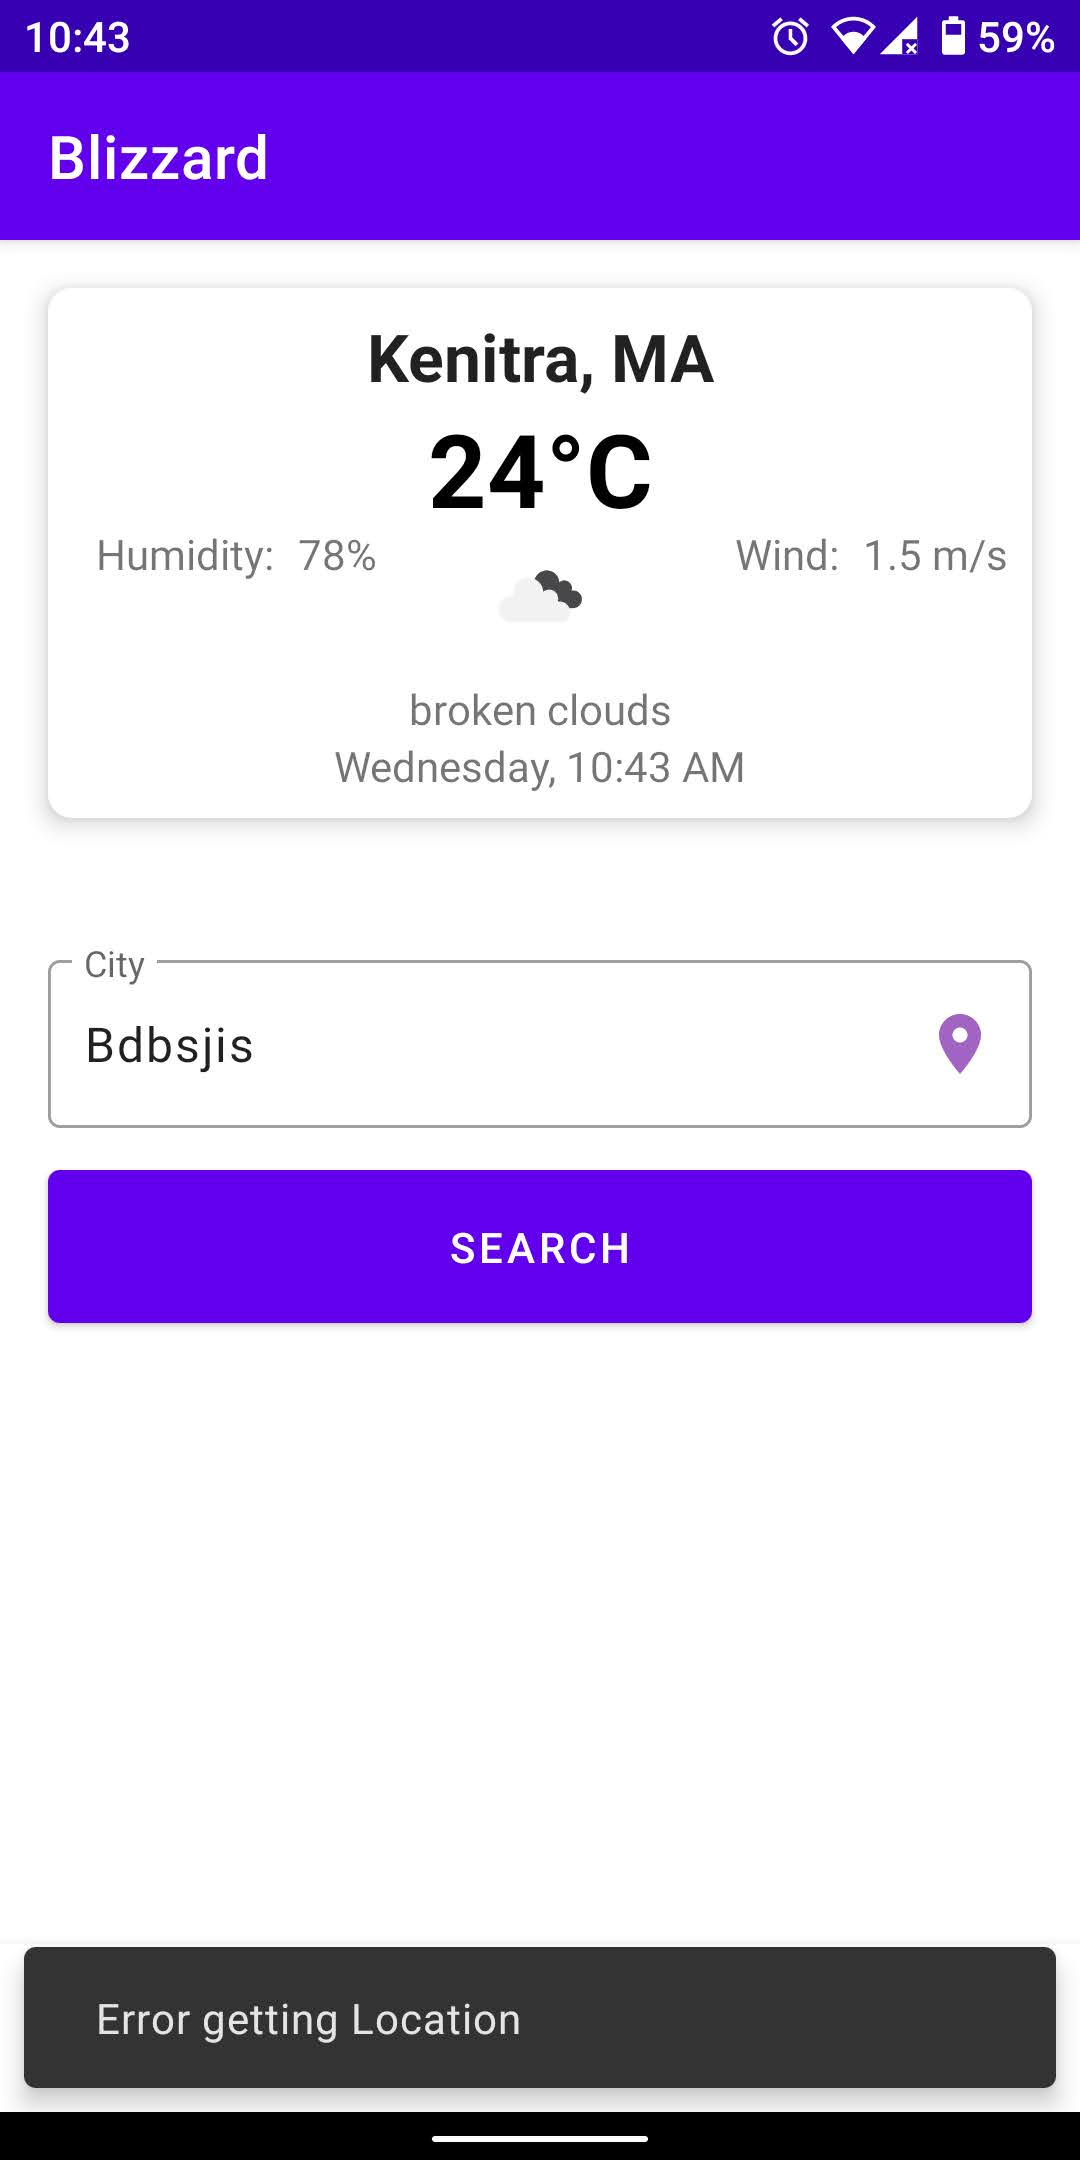
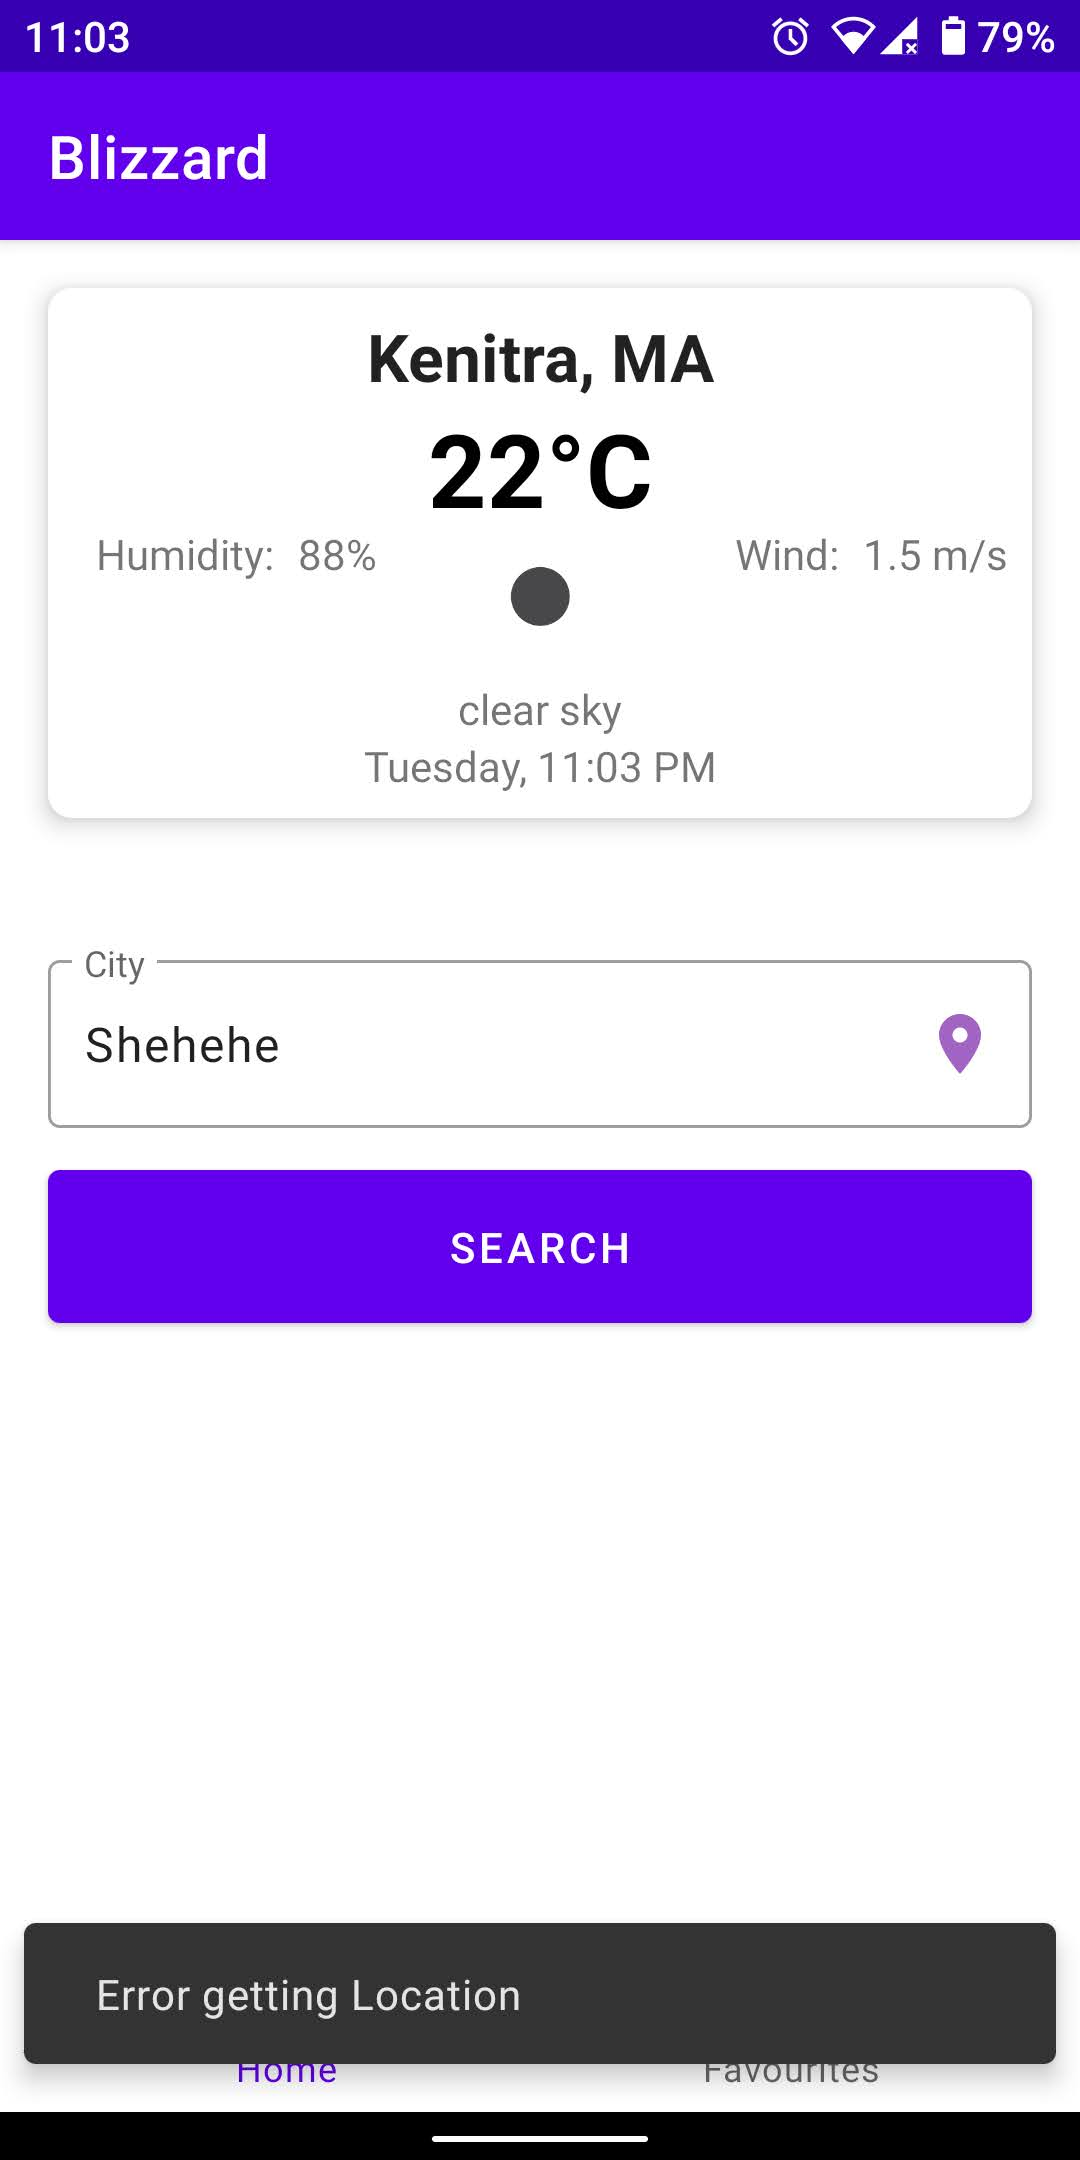
Add bottom navigation view

diff --git a/app/src/main/java/com/example/blizzard/workers/DataUpdateWorker.java b/app/src/main/java/com/example/blizzard/workers/DataUpdateWorker.java
@@ -28,7 +28,6 @@ import retrofit2.Response;
 public class DataUpdateWorker extends ListenableWorker {
     private static final String TAG = "DataUpdateWorker";
     private final BlizzardRepository repository;
-    private Callback<WeatherDataResponse> callback;
 
     public DataUpdateWorker(@NonNull Context context, @NonNull WorkerParameters workerParams) {
         super(context, workerParams);
@@ -47,7 +46,7 @@ public class DataUpdateWorker extends ListenableWorker {
                 completer.set(Result.success());
             }
 
-            callback = new Callback<WeatherDataResponse>() {
+            Callback<WeatherDataResponse> callback = new Callback<WeatherDataResponse>() {
                 @Override
                 public void onResponse(@NotNull Call<WeatherDataResponse> call, @NotNull Response<WeatherDataResponse> response) {
                     WeatherDataResponse currentWeather = response.body();

diff --git a/README.md b/README.md
@@ -42,15 +42,14 @@ https://samples.openweathermap.org/data/2.5/weather?q=London,uk&appid=439d4b804b
 ##### Screenshots
 
 <p float="left">
-  <img src="https://github.com/lokaimoma/blizzard/blob/master/Screenshots/Screenshot_20200819-104313.jpg" width="300 height="auto" />
-  <img src="https://github.com/lokaimoma/blizzard/blob/master/Screenshots/Screenshot_20200818-141917.jpg" width="300 height="auto" />
-  <img src="https://github.com/lokaimoma/blizzard/blob/master/Screenshots/Screenshot_20200818-141927.jpg" width="300 height="auto" />
-  <img src="https://github.com/lokaimoma/blizzard/blob/master/Screenshots/Screenshot_20200818-142147.jpg" width="300 height="auto" />
-  <img src="https://github.com/lokaimoma/blizzard/blob/master/Screenshots/Screenshot_20200818-142154.jpg" width="300 height="auto" />
-  <img src="https://github.com/lokaimoma/blizzard/blob/master/Screenshots/Screenshot_20200818-215708.jpg" width="300 height="auto" />
-  <img src="https://github.com/lokaimoma/blizzard/blob/master/Screenshots/Screenshot_20200818-215716.jpg" width="300 height="auto" />
-  <img src="https://github.com/lokaimoma/blizzard/blob/master/Screenshots/Screenshot_20200818-230334.jpg" width="300 height="auto" />
-  <img src="https://github.com/lokaimoma/blizzard/blob/master/Screenshots/Screenshot_20200819-021929.jpg" width="300 height="auto" />
+  <img src="https://github.com/lokaimoma/blizzard/blob/master/Screenshots/Screenshot_20200818-141917.jpg" width="400" />
+  <img src="https://github.com/lokaimoma/blizzard/blob/master/Screenshots/Screenshot_20200818-141927.jpg" width="400" />
+  <img src="https://github.com/lokaimoma/blizzard/blob/master/Screenshots/Screenshot_20200818-142147.jpg" width="400" />
+  <img src="https://github.com/lokaimoma/blizzard/blob/master/Screenshots/Screenshot_20200818-142154.jpg" width="400" />
+  <img src="https://github.com/lokaimoma/blizzard/blob/master/Screenshots/Screenshot_20200818-215708.jpg" width="400" />
+  <img src="https://github.com/lokaimoma/blizzard/blob/master/Screenshots/Screenshot_20200818-215716.jpg" width="400" />
+  <img src="https://github.com/lokaimoma/blizzard/blob/master/Screenshots/Screenshot_20200818-230334.jpg" width="400" />
+  <img src="https://github.com/lokaimoma/blizzard/blob/master/Screenshots/Screenshot_20200819-021929.jpg" width="400" />
 </p>
 
 
